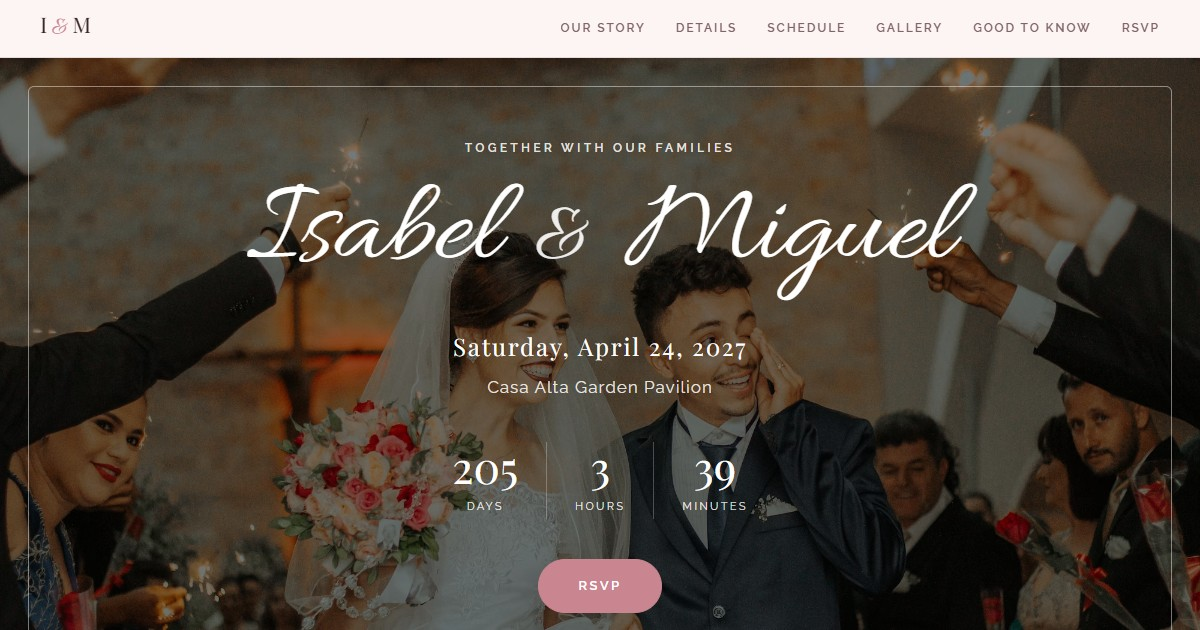
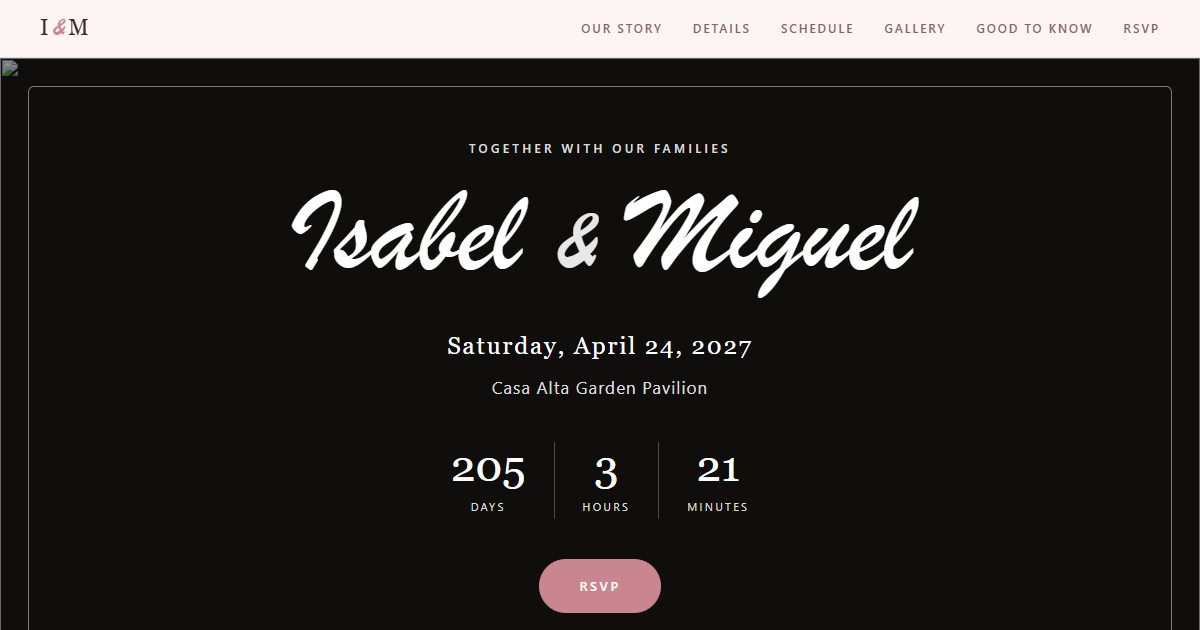
Give each sample design its own page and Facebook preview
/sample/<design>/ pages, each with its own title, description and
preview picture, so links shared on Facebook show that design. The
design switcher updates the address to match, old ?design= links move
to the new addresses, and the sample pages now carry the fb:pages tag.
On a design page, "See a live sample" opens the sample in that design.

diff --git a/public/sample/index.html b/public/sample/index.html
@@ -67,7 +67,7 @@
         } catch {
           // Storage blocked: nothing was remembered either.
         }
-        const themes = {"classic":{"name":"Classic Ivory","vars":{"--c-bg":"#fbf8f3","--c-surface":"#ffffff","--c-text":"#2e2a25","--c-muted":"#766c61","--c-primary":"#a8864f","--c-accent":"#6e5634","--c-on-primary":"#1b1917","--f-script":"'Great Vibes', 'Brush Script MT', cursive","--f-heading":"'Cormorant Garamond', Georgia, 'Times New Roman', serif","--f-body":"'Lato', system-ui, -apple-system, 'Segoe UI', sans-serif","--hero-overlay":"0.45"},"fonts":"https://fonts.googleapis.com/css2?family=Great+Vibes&family=Cormorant+Garamond:ital,wght@0,400;0,600;1,400&family=Lato:wght@300;400;700&display=swap"},"sage":{"name":"Garden Sage","vars":{"--c-bg":"#f3f5ef","--c-surface":"#ffffff","--c-text":"#25302a","--c-muted":"#617065","--c-primary":"#7c9473","--c-accent":"#45604f","--c-on-primary":"#1b1917","--f-script":"'Parisienne', 'Brush Script MT', cursive","--f-heading":"'Playfair Display', Georgia, 'Times New Roman', serif","--f-body":"'Nunito Sans', system-ui, -apple-system, 'Segoe UI', sans-serif","--hero-overlay":"0.45"},"fonts":"https://fonts.googleapis.com/css2?family=Parisienne&family=Playfair+Display:ital,wght@0,400;0,600;1,400&family=Nunito+Sans:wght@300;400;700&display=swap"},"blush":{"name":"Blush Romance","vars":{"--c-bg":"#fcf4f3","--c-surface":"#ffffff","--c-text":"#3b2a2d","--c-muted":"#80646a","--c-primary":"#c98690","--c-accent":"#9a5561","--c-on-primary":"#1b1917","--f-script":"'Allura', 'Brush Script MT', cursive","--f-heading":"'Playfair Display', Georgia, 'Times New Roman', serif","--f-body":"'Raleway', system-ui, -apple-system, 'Segoe UI', sans-serif","--hero-overlay":"0.45"},"fonts":"https://fonts.googleapis.com/css2?family=Allura&family=Playfair+Display:ital,wght@0,400;0,600;1,400&family=Raleway:wght@300;400;600&display=swap"},"midnight":{"name":"Midnight Gold","vars":{"--c-bg":"#0f1b2d","--c-surface":"#172740","--c-text":"#f3eee3","--c-muted":"#a7b2c3","--c-primary":"#d4b26a","--c-accent":"#ebd9a8","--c-on-primary":"#1b1917","--f-script":"'Pinyon Script', 'Brush Script MT', cursive","--f-heading":"'Cinzel', Georgia, 'Times New Roman', serif","--f-body":"'Montserrat', system-ui, -apple-system, 'Segoe UI', sans-serif","--hero-overlay":"0.45"},"fonts":"https://fonts.googleapis.com/css2?family=Pinyon+Script&family=Cinzel:wght@400;600&family=Montserrat:wght@300;400;600&display=swap"},"terracotta":{"name":"Terracotta Boho","vars":{"--c-bg":"#faf2ea","--c-surface":"#fffdf9","--c-text":"#3a2920","--c-muted":"#80634f","--c-primary":"#c0673e","--c-accent":"#8a4428","--c-on-primary":"#1b1917","--f-script":"'Great Vibes', 'Brush Script MT', cursive","--f-heading":"'DM Serif Display', Georgia, 'Times New Roman', serif","--f-body":"'Josefin Sans', system-ui, -apple-system, 'Segoe UI', sans-serif","--hero-overlay":"0.45"},"fonts":"https://fonts.googleapis.com/css2?family=Great+Vibes&family=DM+Serif+Display:ital@0;1&family=Josefin+Sans:wght@300;400;600&display=swap"},"minimal":{"name":"Modern Minimal","vars":{"--c-bg":"#ffffff","--c-surface":"#f5f5f3","--c-text":"#161616","--c-muted":"#666666","--c-primary":"#1f1f1f","--c-accent":"#1f1f1f","--c-on-primary":"#ffffff","--f-script":"'Allura', 'Brush Script MT', cursive","--f-heading":"'Libre Baskerville', Georgia, 'Times New Roman', serif","--f-body":"'Montserrat', system-ui, -apple-system, 'Segoe UI', sans-serif","--hero-overlay":"0.45"},"fonts":"https://fonts.googleapis.com/css2?family=Allura&family=Libre+Baskerville:ital,wght@0,400;0,700;1,400&family=Montserrat:wght@300;400;600&display=swap"}}
+        const themes = {"classic":{"name":"Classic Ivory","title":"Classic Ivory Wedding Website Sample with RSVP | ForeverPH","vars":{"--c-bg":"#fbf8f3","--c-surface":"#ffffff","--c-text":"#2e2a25","--c-muted":"#766c61","--c-primary":"#a8864f","--c-accent":"#6e5634","--c-on-primary":"#1b1917","--f-script":"'Great Vibes', 'Brush Script MT', cursive","--f-heading":"'Cormorant Garamond', Georgia, 'Times New Roman', serif","--f-body":"'Lato', system-ui, -apple-system, 'Segoe UI', sans-serif","--hero-overlay":"0.45"},"fonts":"https://fonts.googleapis.com/css2?family=Great+Vibes&family=Cormorant+Garamond:ital,wght@0,400;0,600;1,400&family=Lato:wght@300;400;700&display=swap"},"sage":{"name":"Garden Sage","title":"Garden Sage Wedding Website Sample with RSVP | ForeverPH","vars":{"--c-bg":"#f3f5ef","--c-surface":"#ffffff","--c-text":"#25302a","--c-muted":"#617065","--c-primary":"#7c9473","--c-accent":"#45604f","--c-on-primary":"#1b1917","--f-script":"'Parisienne', 'Brush Script MT', cursive","--f-heading":"'Playfair Display', Georgia, 'Times New Roman', serif","--f-body":"'Nunito Sans', system-ui, -apple-system, 'Segoe UI', sans-serif","--hero-overlay":"0.45"},"fonts":"https://fonts.googleapis.com/css2?family=Parisienne&family=Playfair+Display:ital,wght@0,400;0,600;1,400&family=Nunito+Sans:wght@300;400;700&display=swap"},"blush":{"name":"Blush Romance","title":"Blush Romance Wedding Website Sample with RSVP | ForeverPH","vars":{"--c-bg":"#fcf4f3","--c-surface":"#ffffff","--c-text":"#3b2a2d","--c-muted":"#80646a","--c-primary":"#c98690","--c-accent":"#9a5561","--c-on-primary":"#1b1917","--f-script":"'Allura', 'Brush Script MT', cursive","--f-heading":"'Playfair Display', Georgia, 'Times New Roman', serif","--f-body":"'Raleway', system-ui, -apple-system, 'Segoe UI', sans-serif","--hero-overlay":"0.45"},"fonts":"https://fonts.googleapis.com/css2?family=Allura&family=Playfair+Display:ital,wght@0,400;0,600;1,400&family=Raleway:wght@300;400;600&display=swap"},"midnight":{"name":"Midnight Gold","title":"Midnight Gold Wedding Website Sample with RSVP | ForeverPH","vars":{"--c-bg":"#0f1b2d","--c-surface":"#172740","--c-text":"#f3eee3","--c-muted":"#a7b2c3","--c-primary":"#d4b26a","--c-accent":"#ebd9a8","--c-on-primary":"#1b1917","--f-script":"'Pinyon Script', 'Brush Script MT', cursive","--f-heading":"'Cinzel', Georgia, 'Times New Roman', serif","--f-body":"'Montserrat', system-ui, -apple-system, 'Segoe UI', sans-serif","--hero-overlay":"0.45"},"fonts":"https://fonts.googleapis.com/css2?family=Pinyon+Script&family=Cinzel:wght@400;600&family=Montserrat:wght@300;400;600&display=swap"},"terracotta":{"name":"Terracotta Boho","title":"Terracotta Boho Wedding Website Sample with RSVP | ForeverPH","vars":{"--c-bg":"#faf2ea","--c-surface":"#fffdf9","--c-text":"#3a2920","--c-muted":"#80634f","--c-primary":"#c0673e","--c-accent":"#8a4428","--c-on-primary":"#1b1917","--f-script":"'Great Vibes', 'Brush Script MT', cursive","--f-heading":"'DM Serif Display', Georgia, 'Times New Roman', serif","--f-body":"'Josefin Sans', system-ui, -apple-system, 'Segoe UI', sans-serif","--hero-overlay":"0.45"},"fonts":"https://fonts.googleapis.com/css2?family=Great+Vibes&family=DM+Serif+Display:ital@0;1&family=Josefin+Sans:wght@300;400;600&display=swap"},"minimal":{"name":"Modern Minimal","title":"Modern Minimal Wedding Website Sample with RSVP | ForeverPH","vars":{"--c-bg":"#ffffff","--c-surface":"#f5f5f3","--c-text":"#161616","--c-muted":"#666666","--c-primary":"#1f1f1f","--c-accent":"#1f1f1f","--c-on-primary":"#ffffff","--f-script":"'Allura', 'Brush Script MT', cursive","--f-heading":"'Libre Baskerville', Georgia, 'Times New Roman', serif","--f-body":"'Montserrat', system-ui, -apple-system, 'Segoe UI', sans-serif","--hero-overlay":"0.45"},"fonts":"https://fonts.googleapis.com/css2?family=Allura&family=Libre+Baskerville:ital,wght@0,400;0,700;1,400&family=Montserrat:wght@300;400;600&display=swap"}}
         const bar = document.querySelector('.fph-sample')
         const buttons = bar.querySelectorAll('[data-design]')
         const override = document.head.appendChild(document.createElement('style'))
@@ -79,18 +79,30 @@
             document.head.append(Object.assign(document.createElement('link'), { rel: 'stylesheet', href: theme.fonts }))
           }
           document.querySelector('meta[name="theme-color"]')?.setAttribute('content', theme.vars['--c-bg'])
+          document.title = theme.title
           bar.querySelector('.fph-sample__name').textContent = theme.name
           buttons.forEach((button) => button.setAttribute('aria-pressed', button.dataset.design === id))
         }
-        // /sample/?design=midnight opens the sample in that design.
-        const start = new URLSearchParams(location.search).get('design')
-        if (themes[start]) show(start)
+        // /sample/midnight/ opens the sample in that design. Each design has its
+        // own page there, so a copied link previews in that design on Facebook.
+        // Older ?design=midnight links still work.
+        function moveTo(id) {
+          const url = new URL(location.href)
+          url.pathname = '/sample/' + id + '/'
+          url.searchParams.delete('design')
+          history.replaceState(null, '', url)
+        }
+        const fromPath = location.pathname.match(/^\/sample\/([a-z]+)\/?$/)?.[1]
+        const fromQuery = new URLSearchParams(location.search).get('design')
+        if (themes[fromPath]) show(fromPath)
+        else if (themes[fromQuery]) {
+          show(fromQuery)
+          moveTo(fromQuery)
+        }
         buttons.forEach((button) =>
           button.addEventListener('click', () => {
             show(button.dataset.design)
-            const url = new URL(location.href)
-            url.searchParams.set('design', button.dataset.design)
-            history.replaceState(null, '', url)
+            moveTo(button.dataset.design)
           }),
         )
       })()

diff --git a/vite.config.js b/vite.config.js
@@ -3,21 +3,16 @@ import { existsSync, mkdirSync, readFileSync, writeFileSync } from 'node:fs'
 import { join } from 'node:path'
 import react from '@vitejs/plugin-react'
 import { defineConfig, loadEnv } from 'vite'
-import { brand, designPath, designs, share } from './src/content.js'
+import { brand, designPath, designs, samplePath, share } from './src/content.js'
 
 const escape = (text) =>
   text.replaceAll('&', '&amp;').replaceAll('"', '&quot;').replaceAll('<', '&lt;')
 
-// Preview tags the sample needs on top of its page tags. The other pages get
-// these from index.html, but the sample's page comes from the template.
-const sampleMeta = [
-  `<meta property="og:site_name" content="${brand.name}" />`,
-  '<meta property="og:locale" content="en_PH" />',
-  '<meta property="og:image:type" content="image/jpeg" />',
-  '<meta property="og:image:width" content="1200" />',
-  '<meta property="og:image:height" content="630" />',
-  '<meta name="twitter:card" content="summary_large_image" />',
-]
+// Preview tags in index.html that every page shares: site name, language,
+// Facebook Page and picture size. The sample's pages come from the template,
+// so they get copies of these.
+const SHARED_META =
+  /<meta (property="(og:site_name|og:locale|fb:pages|og:image:(type|width|height))"|name="twitter:card") [^>]*>/g
 
 // Facebook and Messenger read link previews from the HTML without running
 // JavaScript, so every page people share needs its tags in its own file.
@@ -31,9 +26,17 @@ function sharePages(siteUrl) {
     image: design.id,
     ...share.design(design),
   }))
-  // The live sample from `npm run sample`, already in public/sample/.
-  const samplePage = { path: '/sample/', image: 'sample', ...share.sample }
-  const allPages = [home, ...designPages, samplePage]
+  // The live sample from `npm run sample`, already in public/sample/, plus a
+  // page that opens it in each design.
+  const samplePages = [
+    { path: '/sample/', image: 'sample', ...share.sample },
+    ...designs.map((design) => ({
+      path: samplePath(design),
+      image: `sample-${design.id}`,
+      ...share.sampleDesign(design),
+    })),
+  ]
+  const allPages = [home, ...designPages, ...samplePages]
 
   const imageFile = (page) => new URL(`./public/share/${page.image}.jpg`, import.meta.url)
 
@@ -94,14 +97,13 @@ function sharePages(siteUrl) {
   return {
     name: 'share-pages',
     transformIndexHtml: (html) => html.replace('<!-- page tags -->', tags(home)),
-    // The dev server answers /sample/ with this site's own page, so point it
-    // at the sample's page. (The host and `vite preview` already do this.)
+    // The dev server answers /sample/ and /sample/<design>/ with this site's
+    // own page, so point them at the sample's page, which reads the design
+    // from the address. (The build writes a real page for each.)
     configureServer(server) {
       server.middlewares.use((req, res, next) => {
         const url = new URL(req.url, 'http://localhost')
-        if (url.pathname === '/sample' || url.pathname === '/sample/') {
-          req.url = `/sample/index.html${url.search}`
-        }
+        if (/^\/sample(\/[a-z]+)?\/?$/.test(url.pathname)) req.url = `/sample/index.html${url.search}`
         next()
       })
     },
@@ -119,15 +121,24 @@ function sharePages(siteUrl) {
         writeFileSync(join(dir, page.path, 'index.html'), html.replace(homeTags, tags(page)))
       }
 
-      // The sample keeps the template's page but swaps the couple's title and
-      // preview for ForeverPH's, so shared links say whose sample it is.
-      const sampleFile = join(dir, samplePage.path, 'index.html')
+      // The sample's pages keep the template's page but swap the couple's
+      // title and preview for ForeverPH's, so shared links say whose sample
+      // it is. Each design's page is the same page; its script reads the
+      // design from the address.
+      const sampleFile = join(dir, 'sample/index.html')
       if (!existsSync(sampleFile)) throw new Error('No sample in public/sample/. Run npm run sample.')
       const sampleHtml = readFileSync(sampleFile, 'utf8')
         .replace(/<title>.*?<\/title>\s*/, '')
         .replace(/<meta (name="description"|property="og:(title|description)") [^>]*>\s*/g, '')
-      const sampleTags = [tags(samplePage), ...sampleMeta].join('\n    ')
-      writeFileSync(sampleFile, sampleHtml.replace('</head>', `  ${sampleTags}\n  </head>`))
+      const sharedMeta = html.match(SHARED_META) ?? []
+      if (!sharedMeta.some((tag) => tag.includes('fb:pages'))) {
+        throw new Error('share-pages: shared preview tags not found in index.html')
+      }
+      for (const page of samplePages) {
+        const pageTags = [tags(page), ...sharedMeta].join('\n    ')
+        mkdirSync(join(dir, page.path), { recursive: true })
+        writeFileSync(join(dir, page.path, 'index.html'), sampleHtml.replace('</head>', `  ${pageTags}\n  </head>`))
+      }
 
       writeFileSync(join(dir, 'robots.txt'), `User-agent: *\nAllow: /\n\nSitemap: ${siteUrl}/sitemap.xml\n`)
       const urls = allPages.map((page) => `  <url><loc>${siteUrl}${page.path}</loc></url>`)

diff --git a/scripts/sample.js b/scripts/sample.js
@@ -12,7 +12,7 @@ import { spawnSync } from 'node:child_process'
 import { existsSync, readdirSync, readFileSync, rmSync, writeFileSync } from 'node:fs'
 import { join, resolve } from 'node:path'
 import { pathToFileURL } from 'node:url'
-import { brand, designs } from '../src/content.js'
+import { brand, designs, share } from '../src/content.js'
 
 const template = resolve(import.meta.dirname, '../../WeddingWebsite')
 const outDir = resolve(import.meta.dirname, '../public/sample')
@@ -67,6 +67,7 @@ const themes = designs.map((design) => {
   return {
     id: design.id,
     name: design.name,
+    title: share.sampleDesign(design).title,
     swatch: [theme.colors.background, theme.colors.primary],
     vars: themeVars(theme),
     fonts: googleFontsHref(theme),
@@ -122,7 +123,7 @@ const bar = `<aside class="fph-sample" aria-label="About this sample">
         } catch {
           // Storage blocked: nothing was remembered either.
         }
-        const themes = ${JSON.stringify(Object.fromEntries(themes.map(({ id, name, vars, fonts }) => [id, { name, vars, fonts }])))}
+        const themes = ${JSON.stringify(Object.fromEntries(themes.map(({ id, name, title, vars, fonts }) => [id, { name, title, vars, fonts }])))}
         const bar = document.querySelector('.fph-sample')
         const buttons = bar.querySelectorAll('[data-design]')
         const override = document.head.appendChild(document.createElement('style'))
@@ -134,18 +135,30 @@ const bar = `<aside class="fph-sample" aria-label="About this sample">
             document.head.append(Object.assign(document.createElement('link'), { rel: 'stylesheet', href: theme.fonts }))
           }
           document.querySelector('meta[name="theme-color"]')?.setAttribute('content', theme.vars['--c-bg'])
+          document.title = theme.title
           bar.querySelector('.fph-sample__name').textContent = theme.name
           buttons.forEach((button) => button.setAttribute('aria-pressed', button.dataset.design === id))
         }
-        // /sample/?design=midnight opens the sample in that design.
-        const start = new URLSearchParams(location.search).get('design')
-        if (themes[start]) show(start)
+        // /sample/midnight/ opens the sample in that design. Each design has its
+        // own page there, so a copied link previews in that design on Facebook.
+        // Older ?design=midnight links still work.
+        function moveTo(id) {
+          const url = new URL(location.href)
+          url.pathname = '/sample/' + id + '/'
+          url.searchParams.delete('design')
+          history.replaceState(null, '', url)
+        }
+        const fromPath = location.pathname.match(/^\\/sample\\/([a-z]+)\\/?$/)?.[1]
+        const fromQuery = new URLSearchParams(location.search).get('design')
+        if (themes[fromPath]) show(fromPath)
+        else if (themes[fromQuery]) {
+          show(fromQuery)
+          moveTo(fromQuery)
+        }
         buttons.forEach((button) =>
           button.addEventListener('click', () => {
             show(button.dataset.design)
-            const url = new URL(location.href)
-            url.searchParams.set('design', button.dataset.design)
-            history.replaceState(null, '', url)
+            moveTo(button.dataset.design)
           }),
         )
       })()

diff --git a/scripts/share-images.js b/scripts/share-images.js
@@ -1,15 +1,20 @@
 // Screenshots the top of the home page, each design page and the live sample
-// into public/share/, the pictures Facebook and Messenger show in link
-// previews. Uses your installed Google Chrome; set CHROME_PATH to use another
-// browser. Name pictures to redo only those: npm run share-images -- sample
+// in each design into public/share/, the pictures Facebook and Messenger show
+// in link previews. Uses your installed Google Chrome; set CHROME_PATH to use
+// another browser. Name pictures to redo only those: `npm run share-images --
+// sample` redoes sample.jpg and every sample-<design>.jpg.
 import { mkdir } from 'node:fs/promises'
 import puppeteer from 'puppeteer-core'
 import { createServer } from 'vite'
-import { designPath, designs } from '../src/content.js'
+import { designPath, designs, samplePath } from '../src/content.js'
 
 const only = process.argv.slice(2)
-const wanted = ([name]) => only.length === 0 || only.includes(name)
+const wanted = ([name]) => only.length === 0 || only.some((o) => name === o || name.startsWith(`${o}-`))
 const pages = [['home', '/'], ...designs.map((design) => [design.id, designPath(design)])].filter(wanted)
+const samplePages = [
+  ['sample', '/sample/'],
+  ...designs.map((design) => [`sample-${design.id}`, samplePath(design)]),
+].filter(wanted)
 
 // A 1340×704 window, scrolled until the top 75px of the hero is tucked under
 // the sticky nav, fits everything from the logo to the trust list in
@@ -45,17 +50,15 @@ try {
 
   // The live sample (npm run sample): the top of the couple's page, without
   // the bar at the bottom.
-  if (wanted(['sample'])) {
-    await page.setViewport({ width: 1200, height: 630 })
-    await page.goto(new URL('/sample/index.html', server.resolvedUrls.local[0]).href, {
-      waitUntil: 'networkidle0',
-    })
+  await page.setViewport({ width: 1200, height: 630 })
+  for (const [name, path] of samplePages) {
+    await page.goto(new URL(path, server.resolvedUrls.local[0]).href, { waitUntil: 'networkidle0' })
     await page.evaluate(async () => {
       await document.fonts.ready
       document.querySelector('.fph-sample')?.remove()
     })
-    await page.screenshot({ path: 'public/share/sample.jpg', type: 'jpeg', quality: 90 })
-    console.log('public/share/sample.jpg')
+    await page.screenshot({ path: `public/share/${name}.jpg`, type: 'jpeg', quality: 90 })
+    console.log(`public/share/${name}.jpg`)
   }
 } finally {
   await browser.close()

diff --git a/src/content.js b/src/content.js
@@ -169,6 +169,10 @@ export const heroDesign = designs.find((d) => d.id === 'blush')
 // that design on the phone and gets its own Facebook preview.
 export const designPath = (design) => `/designs/${design.id}/`
 
+// The live sample (`npm run sample`) opens in each design at its own address,
+// so links shared on Facebook preview in that design.
+export const samplePath = (design) => `/sample/${design.id}/`
+
 // The page title and the Facebook / Messenger link preview. The preview
 // pictures in public/share/ are made by `npm run share-images`.
 export const share = {
@@ -186,9 +190,14 @@ export const share = {
   sample: {
     title: 'Sample Wedding Website with RSVP: Isabel & Miguel | ForeverPH',
     description:
-      'Explore a real ForeverPH wedding website: details, map, schedule, photos, countdown and an RSVP form you can try.',
+      'Explore a real ForeverPH wedding website: details, map, schedule, photos, countdown and an RSVP form you can try, in any of our 6 designs.',
     imageAlt: "Isabel & Miguel's sample wedding website by ForeverPH",
   },
+  sampleDesign: (design) => ({
+    title: `${design.name} Wedding Website Sample with RSVP | ForeverPH`,
+    description: `A live ForeverPH wedding website in the ${design.name} design. ${design.note}. Try the RSVP form and switch between all 6 designs.`,
+    imageAlt: `Isabel & Miguel's sample wedding website in the ${design.name} design`,
+  }),
 }
 
 export const steps = [

diff --git a/src/App.jsx b/src/App.jsx
@@ -15,6 +15,7 @@ import {
   messengerUrl,
   packages,
   receptionTools,
+  samplePath,
   specLabels,
   steps,
 } from './content.js'
@@ -263,8 +264,10 @@ function Designs({ now }) {
   const [withPhoto, setWithPhoto] = useState(
     () => new URLSearchParams(window.location.search).get('designs') === 'photos',
   )
-  const sample = brand.sampleSiteUrl
-    ? { href: brand.sampleSiteUrl, label: 'See a live sample' }
+  // On a design's page, the live sample opens in that design.
+  const sampleUrl = brand.sampleSiteUrl && pageDesign ? samplePath(pageDesign) : brand.sampleSiteUrl
+  const sample = sampleUrl
+    ? { href: sampleUrl, label: 'See a live sample' }
     : { href: messengerUrl(messages.demo), label: 'Ask for a live demo' }
   return (
     <section className="section section--soft" id="designs">
